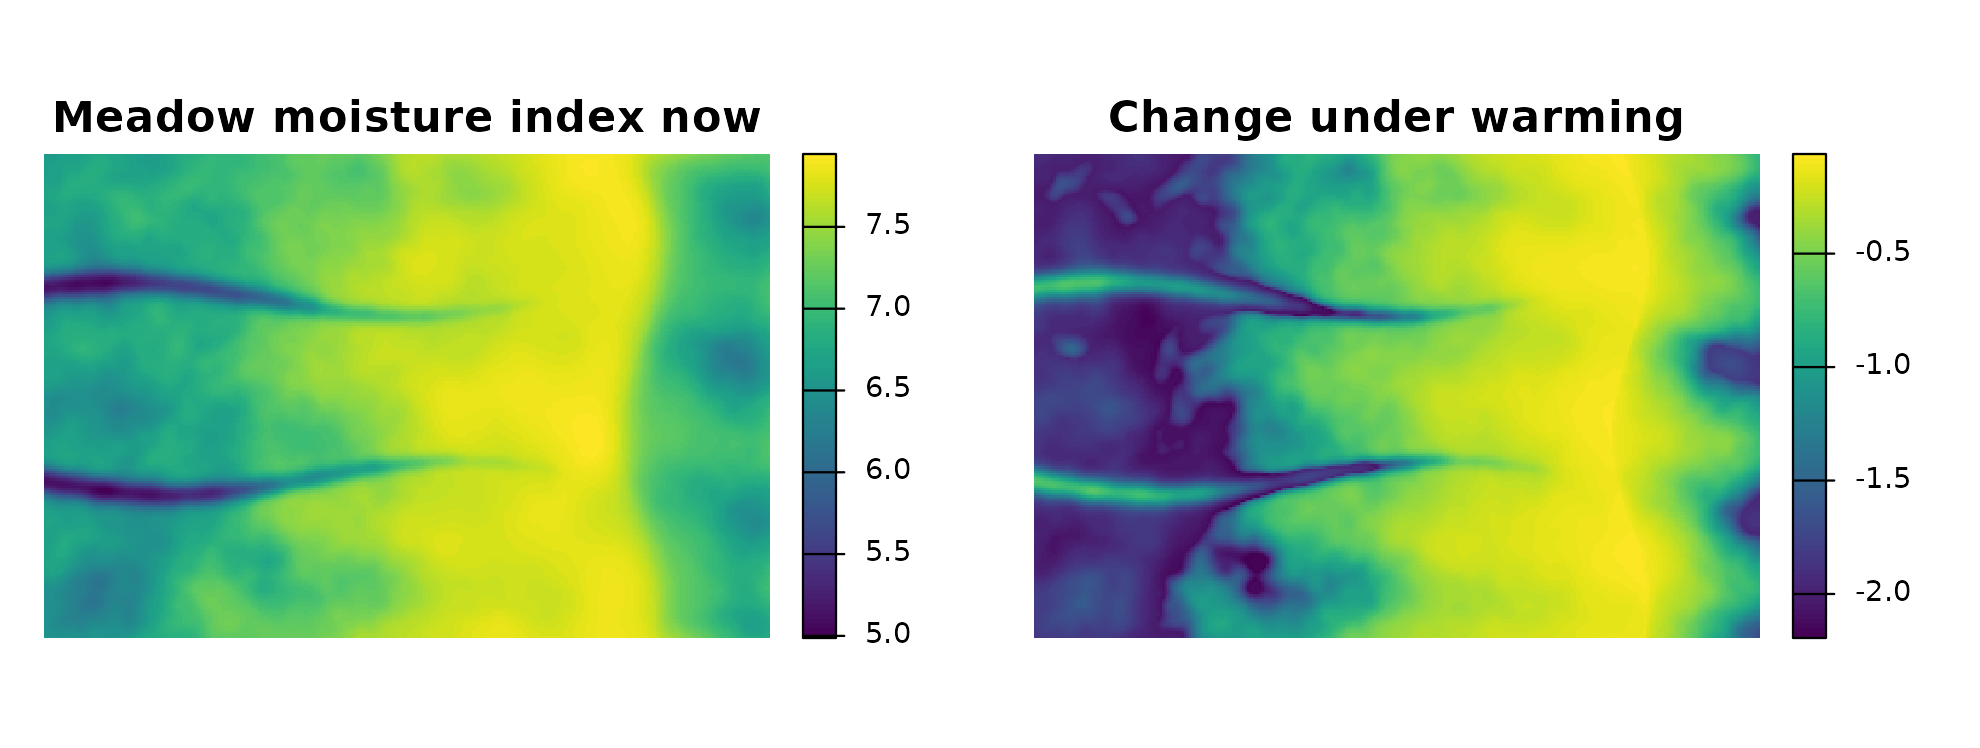
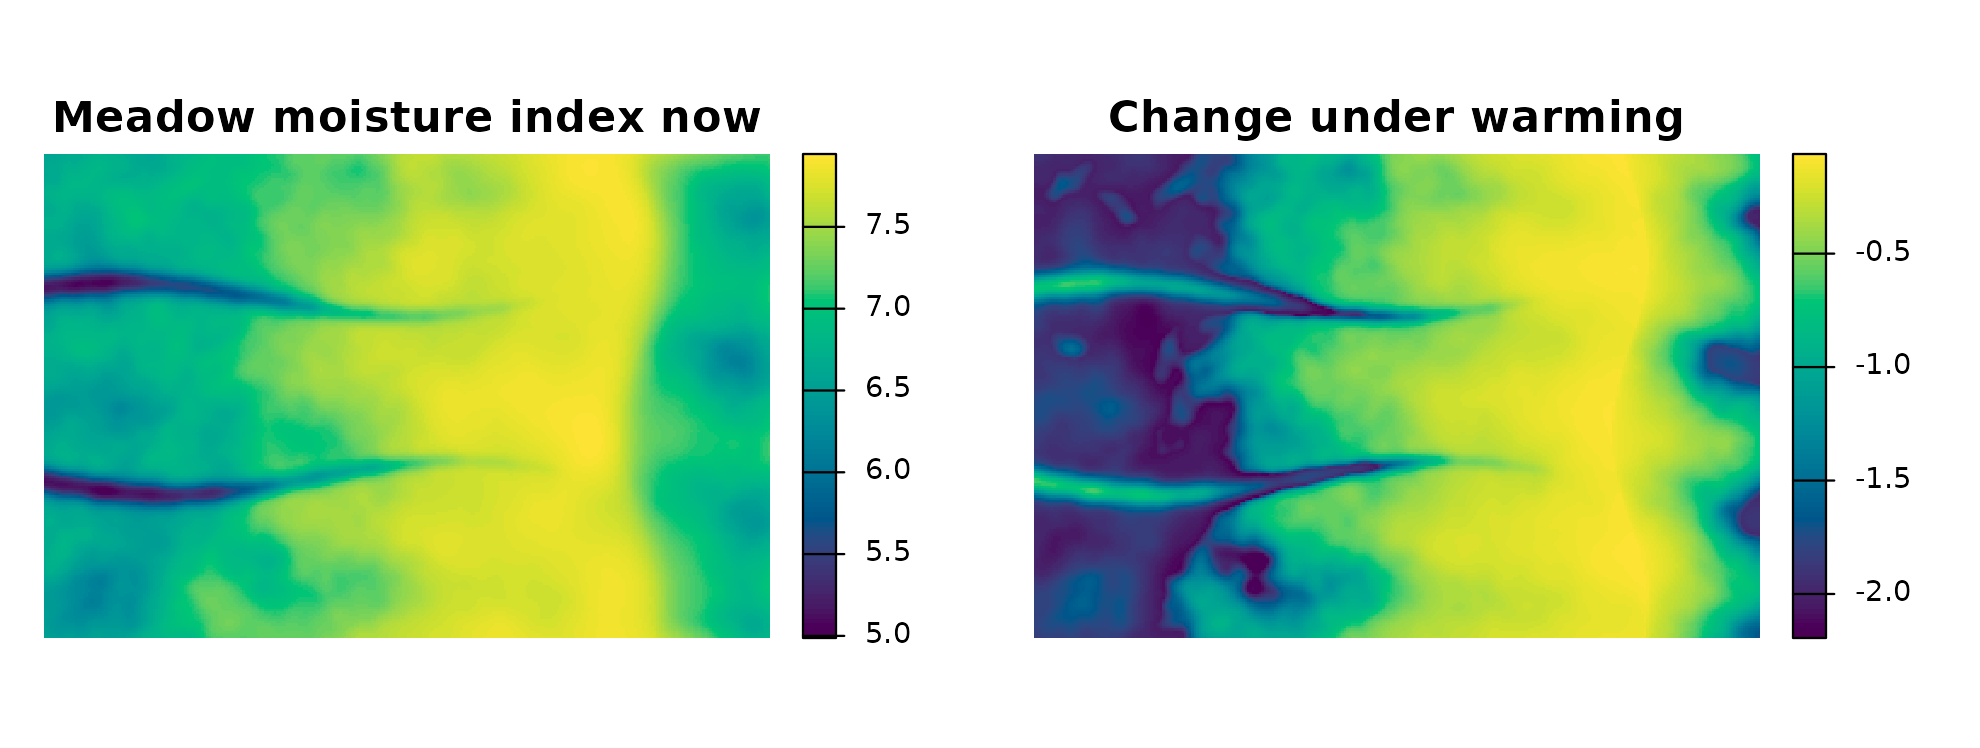
Deploying to gh-pages from @ paulmaier/corridoR@6c4dc78c70ca79a789bd1ac0e61c6b5025beedb3 🚀

diff --git a/reference/shift_arrows.html b/reference/shift_arrows.html
@@ -119,14 +119,10 @@ for <code><a href="https://ggplot2.tidyverse.org/reference/geom_segment.html" cl
 <span class="r-in"><span><span class="va">v</span><span class="op">$</span><span class="va">value</span><span class="op">[</span><span class="fl">3</span><span class="op">:</span><span class="fl">4</span><span class="op">]</span> <span class="op">&lt;-</span> <span class="op">-</span><span class="fl">0.05</span></span></span>
 <span class="r-in"><span><span class="va">m</span> <span class="op">&lt;-</span> <span class="fu"><a href="map_pairwise.html">map_pairwise</a></span><span class="op">(</span><span class="va">v</span>, <span class="va">ex</span><span class="op">$</span><span class="va">acc</span>, <span class="va">ex</span><span class="op">$</span><span class="va">sites</span><span class="op">)</span></span></span>
 <span class="r-in"><span><span class="va">a</span> <span class="op">&lt;-</span> <span class="fu">shift_arrows</span><span class="op">(</span><span class="va">m</span>, cells <span class="op">=</span> <span class="fl">15</span><span class="op">)</span></span></span>
-<span class="r-in"><span><span class="fu">terra</span><span class="fu">::</span><span class="fu"><a href="https://rspatial.github.io/terra/reference/plot.html" class="external-link">plot</a></span><span class="op">(</span><span class="va">m</span><span class="op">$</span><span class="va">value</span><span class="op">)</span></span></span>
+<span class="r-in"><span><span class="va">len</span> <span class="op">&lt;-</span> <span class="fu"><a href="https://rdrr.io/r/base/MathFun.html" class="external-link">sqrt</a></span><span class="op">(</span><span class="op">(</span><span class="va">a</span><span class="op">$</span><span class="va">xend</span> <span class="op">-</span> <span class="va">a</span><span class="op">$</span><span class="va">x</span><span class="op">)</span><span class="op">^</span><span class="fl">2</span> <span class="op">+</span> <span class="op">(</span><span class="va">a</span><span class="op">$</span><span class="va">yend</span> <span class="op">-</span> <span class="va">a</span><span class="op">$</span><span class="va">y</span><span class="op">)</span><span class="op">^</span><span class="fl">2</span><span class="op">)</span></span></span>
+<span class="r-in"><span><span class="va">a</span> <span class="op">&lt;-</span> <span class="va">a</span><span class="op">[</span><span class="va">len</span> <span class="op">&gt;</span> <span class="fl">0.02</span> <span class="op">*</span> <span class="fl">15</span> <span class="op">*</span> <span class="fu">terra</span><span class="fu">::</span><span class="fu"><a href="https://rspatial.github.io/terra/reference/dimensions.html" class="external-link">res</a></span><span class="op">(</span><span class="va">m</span><span class="op">)</span><span class="op">[</span><span class="fl">1</span><span class="op">]</span>, <span class="op">]</span>   <span class="co"># too short to draw, as in plot_shift()</span></span></span>
+<span class="r-in"><span><span class="fu">terra</span><span class="fu">::</span><span class="fu"><a href="https://rspatial.github.io/terra/reference/plot.html" class="external-link">plot</a></span><span class="op">(</span><span class="va">m</span><span class="op">$</span><span class="va">value</span>, col <span class="op">=</span> <span class="fu"><a href="https://rdrr.io/r/grDevices/palettes.html" class="external-link">hcl.colors</a></span><span class="op">(</span><span class="fl">100</span>, <span class="st">"viridis"</span><span class="op">)</span><span class="op">)</span></span></span>
 <span class="r-in"><span><span class="fu"><a href="https://rdrr.io/r/graphics/arrows.html" class="external-link">arrows</a></span><span class="op">(</span><span class="va">a</span><span class="op">$</span><span class="va">x</span>, <span class="va">a</span><span class="op">$</span><span class="va">y</span>, <span class="va">a</span><span class="op">$</span><span class="va">xend</span>, <span class="va">a</span><span class="op">$</span><span class="va">yend</span>, length <span class="op">=</span> <span class="fl">0.05</span><span class="op">)</span></span></span>
-<span class="r-wrn co"><span class="r-pr">#&gt;</span> <span class="warning">Warning: </span>zero-length arrow is of indeterminate angle and so skipped</span>
-<span class="r-wrn co"><span class="r-pr">#&gt;</span> <span class="warning">Warning: </span>zero-length arrow is of indeterminate angle and so skipped</span>
-<span class="r-wrn co"><span class="r-pr">#&gt;</span> <span class="warning">Warning: </span>zero-length arrow is of indeterminate angle and so skipped</span>
-<span class="r-wrn co"><span class="r-pr">#&gt;</span> <span class="warning">Warning: </span>zero-length arrow is of indeterminate angle and so skipped</span>
-<span class="r-wrn co"><span class="r-pr">#&gt;</span> <span class="warning">Warning: </span>zero-length arrow is of indeterminate angle and so skipped</span>
-<span class="r-wrn co"><span class="r-pr">#&gt;</span> <span class="warning">Warning: </span>zero-length arrow is of indeterminate angle and so skipped</span>
 <span class="r-plt img"><img src="shift_arrows-1.png" alt="" width="700" height="433"></span>
 <span class="r-in"><span><span class="co"># }</span></span></span>
 </code></pre></div>

diff --git a/reference/map_pairwise.html b/reference/map_pairwise.html
@@ -138,7 +138,7 @@ and <code>bearing</code> (degrees clockwise from north).</p>
 <span class="r-in"><span>  <span class="fu">sf</span><span class="fu">::</span><span class="fu"><a href="https://r-spatial.github.io/sf/reference/st_coordinates.html" class="external-link">st_coordinates</a></span><span class="op">(</span><span class="va">ex</span><span class="op">$</span><span class="va">sites</span><span class="op">)</span><span class="op">[</span><span class="fu"><a href="https://rdrr.io/r/base/match.html" class="external-link">match</a></span><span class="op">(</span><span class="va">v</span><span class="op">$</span><span class="va">from</span>, <span class="va">ex</span><span class="op">$</span><span class="va">sites</span><span class="op">$</span><span class="va">site</span><span class="op">)</span>, <span class="fl">1</span><span class="op">]</span></span></span>
 <span class="r-in"><span><span class="va">v</span><span class="op">$</span><span class="va">value</span> <span class="op">&lt;-</span> <span class="fu"><a href="https://rdrr.io/r/base/ifelse.html" class="external-link">ifelse</a></span><span class="op">(</span><span class="va">east</span>, <span class="fl">0.05</span>, <span class="op">-</span><span class="fl">0.05</span><span class="op">)</span></span></span>
 <span class="r-in"><span><span class="va">m</span> <span class="op">&lt;-</span> <span class="fu">map_pairwise</span><span class="op">(</span><span class="va">v</span>, <span class="va">ex</span><span class="op">$</span><span class="va">acc</span>, <span class="va">ex</span><span class="op">$</span><span class="va">sites</span><span class="op">)</span></span></span>
-<span class="r-in"><span><span class="fu">terra</span><span class="fu">::</span><span class="fu"><a href="https://rspatial.github.io/terra/reference/plot.html" class="external-link">plot</a></span><span class="op">(</span><span class="va">m</span><span class="op">$</span><span class="va">value</span><span class="op">)</span></span></span>
+<span class="r-in"><span><span class="fu">terra</span><span class="fu">::</span><span class="fu"><a href="https://rspatial.github.io/terra/reference/plot.html" class="external-link">plot</a></span><span class="op">(</span><span class="va">m</span><span class="op">$</span><span class="va">value</span>, col <span class="op">=</span> <span class="fu"><a href="https://rdrr.io/r/grDevices/palettes.html" class="external-link">hcl.colors</a></span><span class="op">(</span><span class="fl">100</span>, <span class="st">"viridis"</span><span class="op">)</span><span class="op">)</span></span></span>
 <span class="r-plt img"><img src="map_pairwise-1.png" alt="" width="700" height="433"></span>
 <span class="r-in"><span><span class="co"># }</span></span></span>
 </code></pre></div>

diff --git a/reference/lcc_weights.html b/reference/lcc_weights.html
@@ -90,7 +90,7 @@ value of <code>q</code>.</p>
 <span class="r-in"><span><span class="va">tr</span> <span class="op">&lt;-</span> <span class="fu"><a href="make_transition.html">make_transition</a></span><span class="op">(</span><span class="va">ex</span><span class="op">$</span><span class="va">resistance</span><span class="op">)</span></span></span>
 <span class="r-in"><span><span class="va">acc</span> <span class="op">&lt;-</span> <span class="fu"><a href="accumulated_cost.html">accumulated_cost</a></span><span class="op">(</span><span class="va">tr</span>, <span class="va">ex</span><span class="op">$</span><span class="va">sites</span><span class="op">[</span><span class="va">ex</span><span class="op">$</span><span class="va">sites</span><span class="op">$</span><span class="va">site</span> <span class="op"><a href="https://rdrr.io/r/base/match.html" class="external-link">%in%</a></span> <span class="fu"><a href="https://rdrr.io/r/base/c.html" class="external-link">c</a></span><span class="op">(</span><span class="st">"M01"</span>, <span class="st">"M12"</span><span class="op">)</span>, <span class="op">]</span><span class="op">)</span></span></span>
 <span class="r-in"><span><span class="va">w</span> <span class="op">&lt;-</span> <span class="fu">lcc_weights</span><span class="op">(</span><span class="va">acc</span>, <span class="st">"M01"</span>, <span class="st">"M12"</span>, q <span class="op">=</span> <span class="fu"><a href="https://rdrr.io/r/base/c.html" class="external-link">c</a></span><span class="op">(</span><span class="fl">0.005</span>, <span class="fl">0.05</span><span class="op">)</span><span class="op">)</span></span></span>
-<span class="r-in"><span><span class="fu">terra</span><span class="fu">::</span><span class="fu"><a href="https://rspatial.github.io/terra/reference/plot.html" class="external-link">plot</a></span><span class="op">(</span><span class="va">w</span><span class="op">)</span></span></span>
+<span class="r-in"><span><span class="fu">terra</span><span class="fu">::</span><span class="fu"><a href="https://rspatial.github.io/terra/reference/plot.html" class="external-link">plot</a></span><span class="op">(</span><span class="va">w</span>, col <span class="op">=</span> <span class="fu"><a href="https://rdrr.io/r/grDevices/palettes.html" class="external-link">hcl.colors</a></span><span class="op">(</span><span class="fl">100</span>, <span class="st">"viridis"</span><span class="op">)</span><span class="op">)</span></span></span>
 <span class="r-plt img"><img src="lcc_weights-1.png" alt="" width="700" height="433"></span>
 <span class="r-in"><span><span class="co"># }</span></span></span>
 </code></pre></div>

diff --git a/articles/tutorial.html b/articles/tutorial.html
@@ -131,7 +131,7 @@ moisture is largest in the foothills and fades toward the crest:</p>
 <div class="sourceCode" id="cb3"><pre class="downlit sourceCode r">
 <code class="sourceCode R"><span><span class="fu"><a href="https://rspatial.github.io/terra/reference/plot.html" class="external-link">plot</a></span><span class="op">(</span><span class="fu"><a href="https://rdrr.io/r/base/c.html" class="external-link">c</a></span><span class="op">(</span><span class="va">ex</span><span class="op">$</span><span class="va">env</span><span class="op">$</span><span class="va">moisture</span>, <span class="va">ex</span><span class="op">$</span><span class="va">env_future</span><span class="op">$</span><span class="va">moisture</span> <span class="op">-</span> <span class="va">ex</span><span class="op">$</span><span class="va">env</span><span class="op">$</span><span class="va">moisture</span><span class="op">)</span>,</span>
 <span>     main <span class="op">=</span> <span class="fu"><a href="https://rdrr.io/r/base/c.html" class="external-link">c</a></span><span class="op">(</span><span class="st">"Meadow moisture index now"</span>, <span class="st">"Change under warming"</span><span class="op">)</span>,</span>
-<span>     axes <span class="op">=</span> <span class="cn">FALSE</span>, mar <span class="op">=</span> <span class="fu"><a href="https://rdrr.io/r/base/c.html" class="external-link">c</a></span><span class="op">(</span><span class="fl">1</span>, <span class="fl">1</span>, <span class="fl">2</span>, <span class="fl">5</span><span class="op">)</span><span class="op">)</span></span></code></pre></div>
+<span>     col <span class="op">=</span> <span class="fu"><a href="https://rdrr.io/r/grDevices/palettes.html" class="external-link">hcl.colors</a></span><span class="op">(</span><span class="fl">100</span>, <span class="st">"viridis"</span><span class="op">)</span>, axes <span class="op">=</span> <span class="cn">FALSE</span>, mar <span class="op">=</span> <span class="fu"><a href="https://rdrr.io/r/base/c.html" class="external-link">c</a></span><span class="op">(</span><span class="fl">1</span>, <span class="fl">1</span>, <span class="fl">2</span>, <span class="fl">5</span><span class="op">)</span><span class="op">)</span></span></code></pre></div>
 <p><img src="tutorial_files/figure-html/climate-1.png" class="r-plt" alt="" width="100%"></p>
 </div>
 <div class="section level2">

diff --git a/reference/corridor_example.html b/reference/corridor_example.html
@@ -122,7 +122,7 @@ meadows and 100 SNPs (<code>small</code>) for quick tests.</p></dd>
     <div class="section level2">
     <h2 id="ref-examples">Examples<a class="anchor" aria-label="anchor" href="#ref-examples"></a></h2>
     <div class="sourceCode"><pre class="sourceCode r"><code><span class="r-in"><span><span class="va">ex</span> <span class="op">&lt;-</span> <span class="fu">corridor_example</span><span class="op">(</span><span class="op">)</span></span></span>
-<span class="r-in"><span><span class="fu">terra</span><span class="fu">::</span><span class="fu"><a href="https://rspatial.github.io/terra/reference/plot.html" class="external-link">plot</a></span><span class="op">(</span><span class="va">ex</span><span class="op">$</span><span class="va">dem</span><span class="op">)</span></span></span>
+<span class="r-in"><span><span class="fu">terra</span><span class="fu">::</span><span class="fu"><a href="https://rspatial.github.io/terra/reference/plot.html" class="external-link">plot</a></span><span class="op">(</span><span class="va">ex</span><span class="op">$</span><span class="va">dem</span>, col <span class="op">=</span> <span class="fu"><a href="https://rdrr.io/r/grDevices/palettes.html" class="external-link">hcl.colors</a></span><span class="op">(</span><span class="fl">100</span>, <span class="st">"viridis"</span><span class="op">)</span><span class="op">)</span></span></span>
 <span class="r-in"><span><span class="fu"><a href="https://rdrr.io/r/graphics/plot.default.html" class="external-link">plot</a></span><span class="op">(</span><span class="fu">sf</span><span class="fu">::</span><span class="fu"><a href="https://r-spatial.github.io/sf/reference/st_geometry.html" class="external-link">st_geometry</a></span><span class="op">(</span><span class="va">ex</span><span class="op">$</span><span class="va">sites</span><span class="op">)</span>, add <span class="op">=</span> <span class="cn">TRUE</span>, pch <span class="op">=</span> <span class="fl">19</span><span class="op">)</span></span></span>
 <span class="r-plt img"><img src="corridor_example-1.png" alt="" width="700" height="433"></span>
 </code></pre></div>

diff --git a/reference/shift_arrows.md b/reference/shift_arrows.md
@@ -73,14 +73,10 @@ v <- both_directions(data.frame(from = c("M03", "M08"), to = c("M20", "M25"), va
 v$value[3:4] <- -0.05
 m <- map_pairwise(v, ex$acc, ex$sites)
 a <- shift_arrows(m, cells = 15)
-terra::plot(m$value)
+len <- sqrt((a$xend - a$x)^2 + (a$yend - a$y)^2)
+a <- a[len > 0.02 * 15 * terra::res(m)[1], ]   # too short to draw, as in plot_shift()
+terra::plot(m$value, col = hcl.colors(100, "viridis"))
 arrows(a$x, a$y, a$xend, a$yend, length = 0.05)
-#> Warning: zero-length arrow is of indeterminate angle and so skipped
-#> Warning: zero-length arrow is of indeterminate angle and so skipped
-#> Warning: zero-length arrow is of indeterminate angle and so skipped
-#> Warning: zero-length arrow is of indeterminate angle and so skipped
-#> Warning: zero-length arrow is of indeterminate angle and so skipped
-#> Warning: zero-length arrow is of indeterminate angle and so skipped
 
 # }
 ```

diff --git a/articles/tutorial.md b/articles/tutorial.md
@@ -76,7 +76,7 @@ fades toward the crest:
 
 plot(c(ex$env$moisture, ex$env_future$moisture - ex$env$moisture),
      main = c("Meadow moisture index now", "Change under warming"),
-     axes = FALSE, mar = c(1, 1, 2, 5))
+     col = hcl.colors(100, "viridis"), axes = FALSE, mar = c(1, 1, 2, 5))
 ```
 
 ![](tutorial_files/figure-html/climate-1.png)

diff --git a/reference/map_pairwise.md b/reference/map_pairwise.md
@@ -88,7 +88,7 @@ east <- sf::st_coordinates(ex$sites)[match(v$to, ex$sites$site), 1] >
   sf::st_coordinates(ex$sites)[match(v$from, ex$sites$site), 1]
 v$value <- ifelse(east, 0.05, -0.05)
 m <- map_pairwise(v, ex$acc, ex$sites)
-terra::plot(m$value)
+terra::plot(m$value, col = hcl.colors(100, "viridis"))
 
 # }
 ```

diff --git a/reference/lcc_weights.md b/reference/lcc_weights.md
@@ -45,7 +45,7 @@ ex <- corridor_example()
 tr <- make_transition(ex$resistance)
 acc <- accumulated_cost(tr, ex$sites[ex$sites$site %in% c("M01", "M12"), ])
 w <- lcc_weights(acc, "M01", "M12", q = c(0.005, 0.05))
-terra::plot(w)
+terra::plot(w, col = hcl.colors(100, "viridis"))
 
 # }
 ```

diff --git a/reference/corridor_example.md b/reference/corridor_example.md
@@ -70,6 +70,6 @@ A list with
 
 ``` r
 ex <- corridor_example()
-terra::plot(ex$dem)
+terra::plot(ex$dem, col = hcl.colors(100, "viridis"))
 plot(sf::st_geometry(ex$sites), add = TRUE, pch = 19)
 ```
